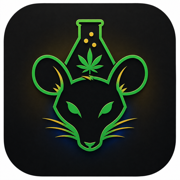
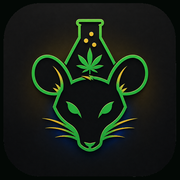
Refine Felipe and Piero themes and add country filter

diff --git a/index.html b/index.html
@@ -153,23 +153,34 @@ body.lab-open .blazeFab{display:flex}body.detail-open .blazeFab,body.add-open .b
   --profile-end:33,19,30; --profile-stat:16,9,14;
 }
 :root.felipe-theme{
-  --ink:#080d0a; --ink2:#0d1510; --panel:#121d16; --panel2:#18271d;
-  --line:#233b2b; --line2:#31543b;
-  --text:#f1f5ec; --dim:#9eae9e; --faint:#667769;
-  --green:#2bc85a; --green-soft:#19743a; --amber:#f4c430; --blue:#2858b8;
-  --accent-rgb:43,200,90; --accent-hi:#42df72; --accent-lo:#1b9b45; --accent-shadow-rgb:27,155,69;
-  --body-glow:#0c3420; --body-glow-2:#0c1b38; --header-rgb:8,13,10; --door-top:#101b12; --door-bottom:#060b08;
-  --profile-end:12,37,22; --profile-stat:5,12,8;
+  --ink:#050b08; --ink2:#09140e; --panel:#0e1d14; --panel2:#14291c;
+  --line:#264a32; --line2:#3d704a;
+  --text:#f5f6ec; --dim:#abb8a6; --faint:#71806f;
+  --green:#19d463; --green-soft:#087c38; --amber:#ffd21a; --blue:#0866d9;
+  --accent-rgb:25,212,99; --accent-hi:#35ed79; --accent-lo:#079447; --accent-shadow-rgb:7,148,71;
+  --body-glow:#073e20; --body-glow-2:#071f43; --header-rgb:5,11,8; --door-top:#0a1c11; --door-bottom:#030805;
+  --profile-end:7,45,24; --profile-stat:3,15,8;
 }
 :root.piero-theme{
-  --ink:#090707; --ink2:#120a0b; --panel:#1b1011; --panel2:#281416;
-  --line:#3b2023; --line2:#572a30;
-  --text:#f7eeee; --dim:#b8a0a2; --faint:#7f6366;
-  --green:#ff3b4f; --green-soft:#a82433;
-  --accent-rgb:255,59,79; --accent-hi:#ff596a; --accent-lo:#c91f32; --accent-shadow-rgb:201,31,50;
-  --body-glow:#351015; --body-glow-2:#1f0b10; --header-rgb:9,7,7; --door-top:#1c0d10; --door-bottom:#080405;
-  --profile-end:35,13,16; --profile-stat:17,7,9;
+  --ink:#050505; --ink2:#090909; --panel:#101010; --panel2:#181818;
+  --line:#46120e; --line2:#7a1d16;
+  --text:#f8f3f2; --dim:#aaa09e; --faint:#746b69;
+  --green:#ff2718; --green-soft:#a5140b;
+  --accent-rgb:255,39,24; --accent-hi:#ff493b; --accent-lo:#d31509; --accent-shadow-rgb:211,21,9;
+  --body-glow:#420a05; --body-glow-2:#180302; --header-rgb:5,5,5; --door-top:#130504; --door-bottom:#030202;
+  --profile-end:38,7,4; --profile-stat:14,3,2;
 }
+:root.felipe-theme .brandbox{border-color:rgba(255,210,26,.72);box-shadow:0 0 18px rgba(255,210,26,.12),0 0 26px rgba(8,102,217,.08)}
+:root.felipe-theme .menuBtn{border-color:rgba(8,102,217,.8);color:var(--amber);box-shadow:0 0 15px rgba(8,102,217,.14)}
+:root.felipe-theme .menuBtn svg{stroke:var(--amber)}
+:root.felipe-theme .memberbar{border-color:rgba(8,102,217,.5);box-shadow:inset 3px 0 0 rgba(255,210,26,.8)}
+:root.felipe-theme .scoretoggle button.on{background:linear-gradient(135deg,#ffd91f,#f2b900);color:#07110b}
+:root.felipe-theme .refresh{border-color:rgba(8,102,217,.62)}
+:root.felipe-theme .refresh svg{stroke:var(--amber)}
+:root.felipe-theme .addbtn{border-color:rgba(255,210,26,.75);color:var(--amber)}
+:root.felipe-theme .addbtn svg{stroke:var(--amber)}
+:root.piero-theme .brandbox,:root.piero-theme .menuBtn{box-shadow:0 0 18px rgba(255,39,24,.16)}
+:root.piero-theme .memberbar{box-shadow:inset 3px 0 0 rgba(255,39,24,.7)}
   .eff-group{border-radius:12px;padding:10px 10px 6px;margin-bottom:10px}
 .eff-group.pos{background:rgba(var(--positive-rgb),.06);border:1px solid rgba(var(--positive-rgb),.25)}
 .eff-group.neg{background:rgba(228,106,84,.06);border:1px solid rgba(228,106,84,.25)}
@@ -603,6 +614,7 @@ main{padding:14px 16px calc(var(--safe-b) + 40px);max-width:900px;margin:0 auto}
     <div class="filterHead"><div class="filterTitle">Filter & sort</div><button class="filterClose" id="filterClose" aria-label="Close filters">✕</button></div>
     <div class="filterGroup"><div class="filterLabel">Collection</div><div class="filterChoices" id="shelfrow"></div></div>
     <div class="filterGroup"><div class="filterLabel">Strain type</div><div class="filterChoices" id="filterTyperow"></div></div>
+    <div class="filterGroup"><div class="filterLabel">Country purchased</div><div class="filterChoices" id="filterCountryrow"></div></div>
     <div class="filterGroup"><div class="filterLabel">Brand</div><select id="brandFilter" class="filterSelect" onchange="filterBrand(this.value)"><option value="">All brands</option></select></div>
     <div class="filterGroup"><div class="filterLabel">Sort by</div><select id="sort" class="filterSelect">
       <option value="smart">Best match</option><option value="score">Score: high to low</option><option value="thc">THC: high to low</option><option value="recent">Most recent</option><option value="az">A–Z</option>
@@ -763,7 +775,7 @@ main{padding:14px 16px calc(var(--safe-b) + 40px);max-width:900px;margin:0 auto}
 
 <script>
 const WORKER_URL = 'https://slr-notion.cleanwataorg.workers.dev';
-const APP_VERSION = 'v1.5.0';
+const APP_VERSION = 'v1.5.1';
 let RAW_TERPENES = [];
 // ---- baked raw data (Notion cleaned shape); refresh replaces these ----
 let RAW_STRAINS = [
@@ -2793,9 +2805,13 @@ const SHELVES=[
   {id:'rated',label:'Rated',test:s=>s.score!=null},
 ];
 const TYPES=[{id:'Sativa',label:'Sativa',cls:'sat'},{id:'Hybrid',label:'Hybrid',cls:'hyb'},{id:'Indica',label:'Indica',cls:'ind'}];
+const COUNTRIES=[
+  {id:'🇩🇪',label:'🇩🇪 Germany'}, {id:'🇺🇸',label:'🇺🇸 USA'}, {id:'🇹🇭',label:'🇹🇭 Thailand'},
+  {id:'🇳🇱',label:'🇳🇱 Netherlands'}, {id:'🇪🇸',label:'🇪🇸 Spain'}
+];
 const SMART={loved:0,good:1,mixed:2,tried:3,untested:4,avoid:5};
 
-let shelf='all', ftype='all', sortBy='smart', query='';
+let shelf='all', ftype='all', fcountry='all', sortBy='smart', query='';
 let viewList=[], currentIdx=-1;
 const $=s=>document.querySelector(s);
 
@@ -2803,7 +2819,7 @@ function setUpdated(txt){ $('#updated').textContent=txt; }
 setUpdated('Sep 10');   // baked snapshot date (set at build time)
 
 function buildChips(){
-  const sr=$('#shelfrow'), tr=$('#typerow'), ftr=$('#filterTyperow'); sr.innerHTML=''; tr.innerHTML=''; ftr.innerHTML='';
+  const sr=$('#shelfrow'), tr=$('#typerow'), ftr=$('#filterTyperow'), fcr=$('#filterCountryrow'); sr.innerHTML=''; tr.innerHTML=''; ftr.innerHTML=''; fcr.innerHTML='';
   SHELVES.forEach(sh=>{
     const n=STRAINS.filter(sh.test).length;
     const b=document.createElement('button');
@@ -2820,6 +2836,12 @@ function buildChips(){
     parent.appendChild(b);
   }
   TYPES.forEach(t=>{addTypeChip(t,tr);addTypeChip(t,ftr);});
+  COUNTRIES.forEach(country=>{
+    const b=document.createElement('button');
+    b.className='chip countrychip'; b.dataset.kind='country'; b.dataset.id=country.id; b.textContent=country.label;
+    b.onclick=()=>{fcountry=(fcountry===country.id?'all':country.id);syncChips();render();};
+    fcr.appendChild(b);
+  });
   // Add brand dropdown
   const brands = [...new Set(RAW_BATCHES.map(b => b.Brand).filter(Boolean))].sort();
   const brandSel = document.getElementById('brandFilter');
@@ -2833,7 +2855,8 @@ function buildChips(){
 function syncChips(){
   document.querySelectorAll('#shelfrow .chip').forEach(b=>b.classList.toggle('on', b.dataset.id===shelf));
   document.querySelectorAll('#typerow .chip,#filterTyperow .chip').forEach(b=>b.classList.toggle('on', b.dataset.id===ftype));
-  const count=(shelf!=='all'?1:0)+(ftype!=='all'?1:0)+(activeBrand?1:0)+(sortBy!=='smart'?1:0);
+  document.querySelectorAll('#filterCountryrow .chip').forEach(b=>b.classList.toggle('on', b.dataset.id===fcountry));
+  const count=(shelf!=='all'?1:0)+(ftype!=='all'?1:0)+(fcountry!=='all'?1:0)+(activeBrand?1:0)+(sortBy!=='smart'?1:0);
   const filterBtn=document.getElementById('filterBtn');
   if(filterBtn){filterBtn.classList.toggle('active',count>0);document.getElementById('filterBadge').textContent=count;}
 }
@@ -2923,6 +2946,7 @@ function render(){
   let list=STRAINS.filter(s=>{
     if(!shTest(s))return false;
     if(ftype!=='all'&&s.type!==ftype)return false;
+    if(fcountry!=='all'&&!(s.countries||[]).includes(fcountry))return false;
    if(activeBrand && !(s.brands||[]).includes(activeBrand))return false;
     if(query){const hay=(s.name+' '+(s.brands||[]).join(' ')+' '+(s.terpenes||[]).join(' ')+' '+(s.type||'')).toLowerCase();if(!hay.includes(query))return false;}
     return true;
